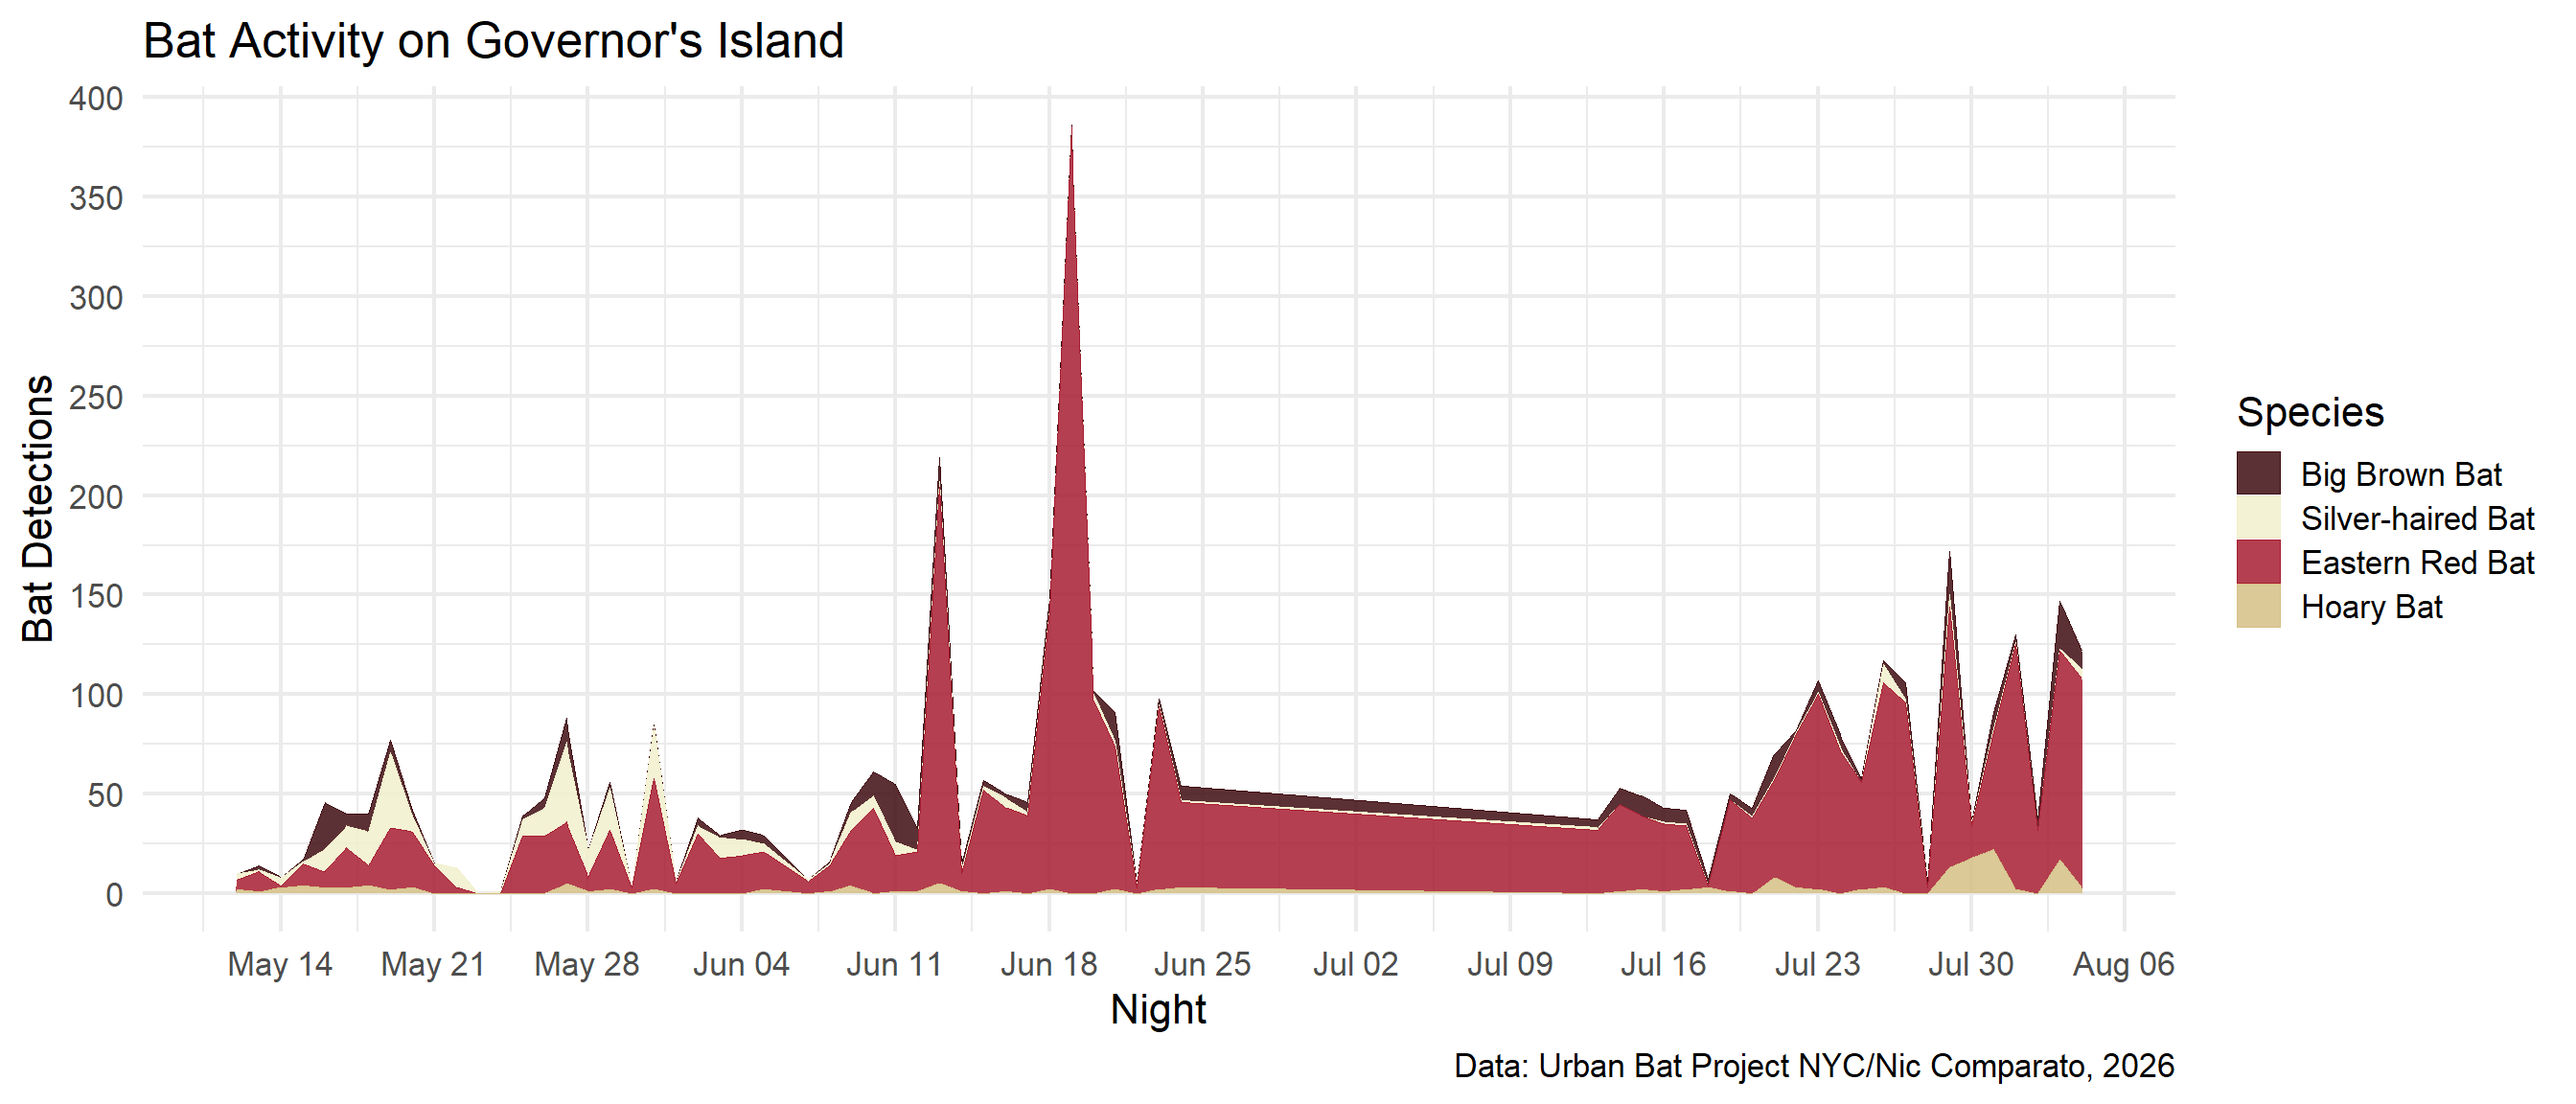
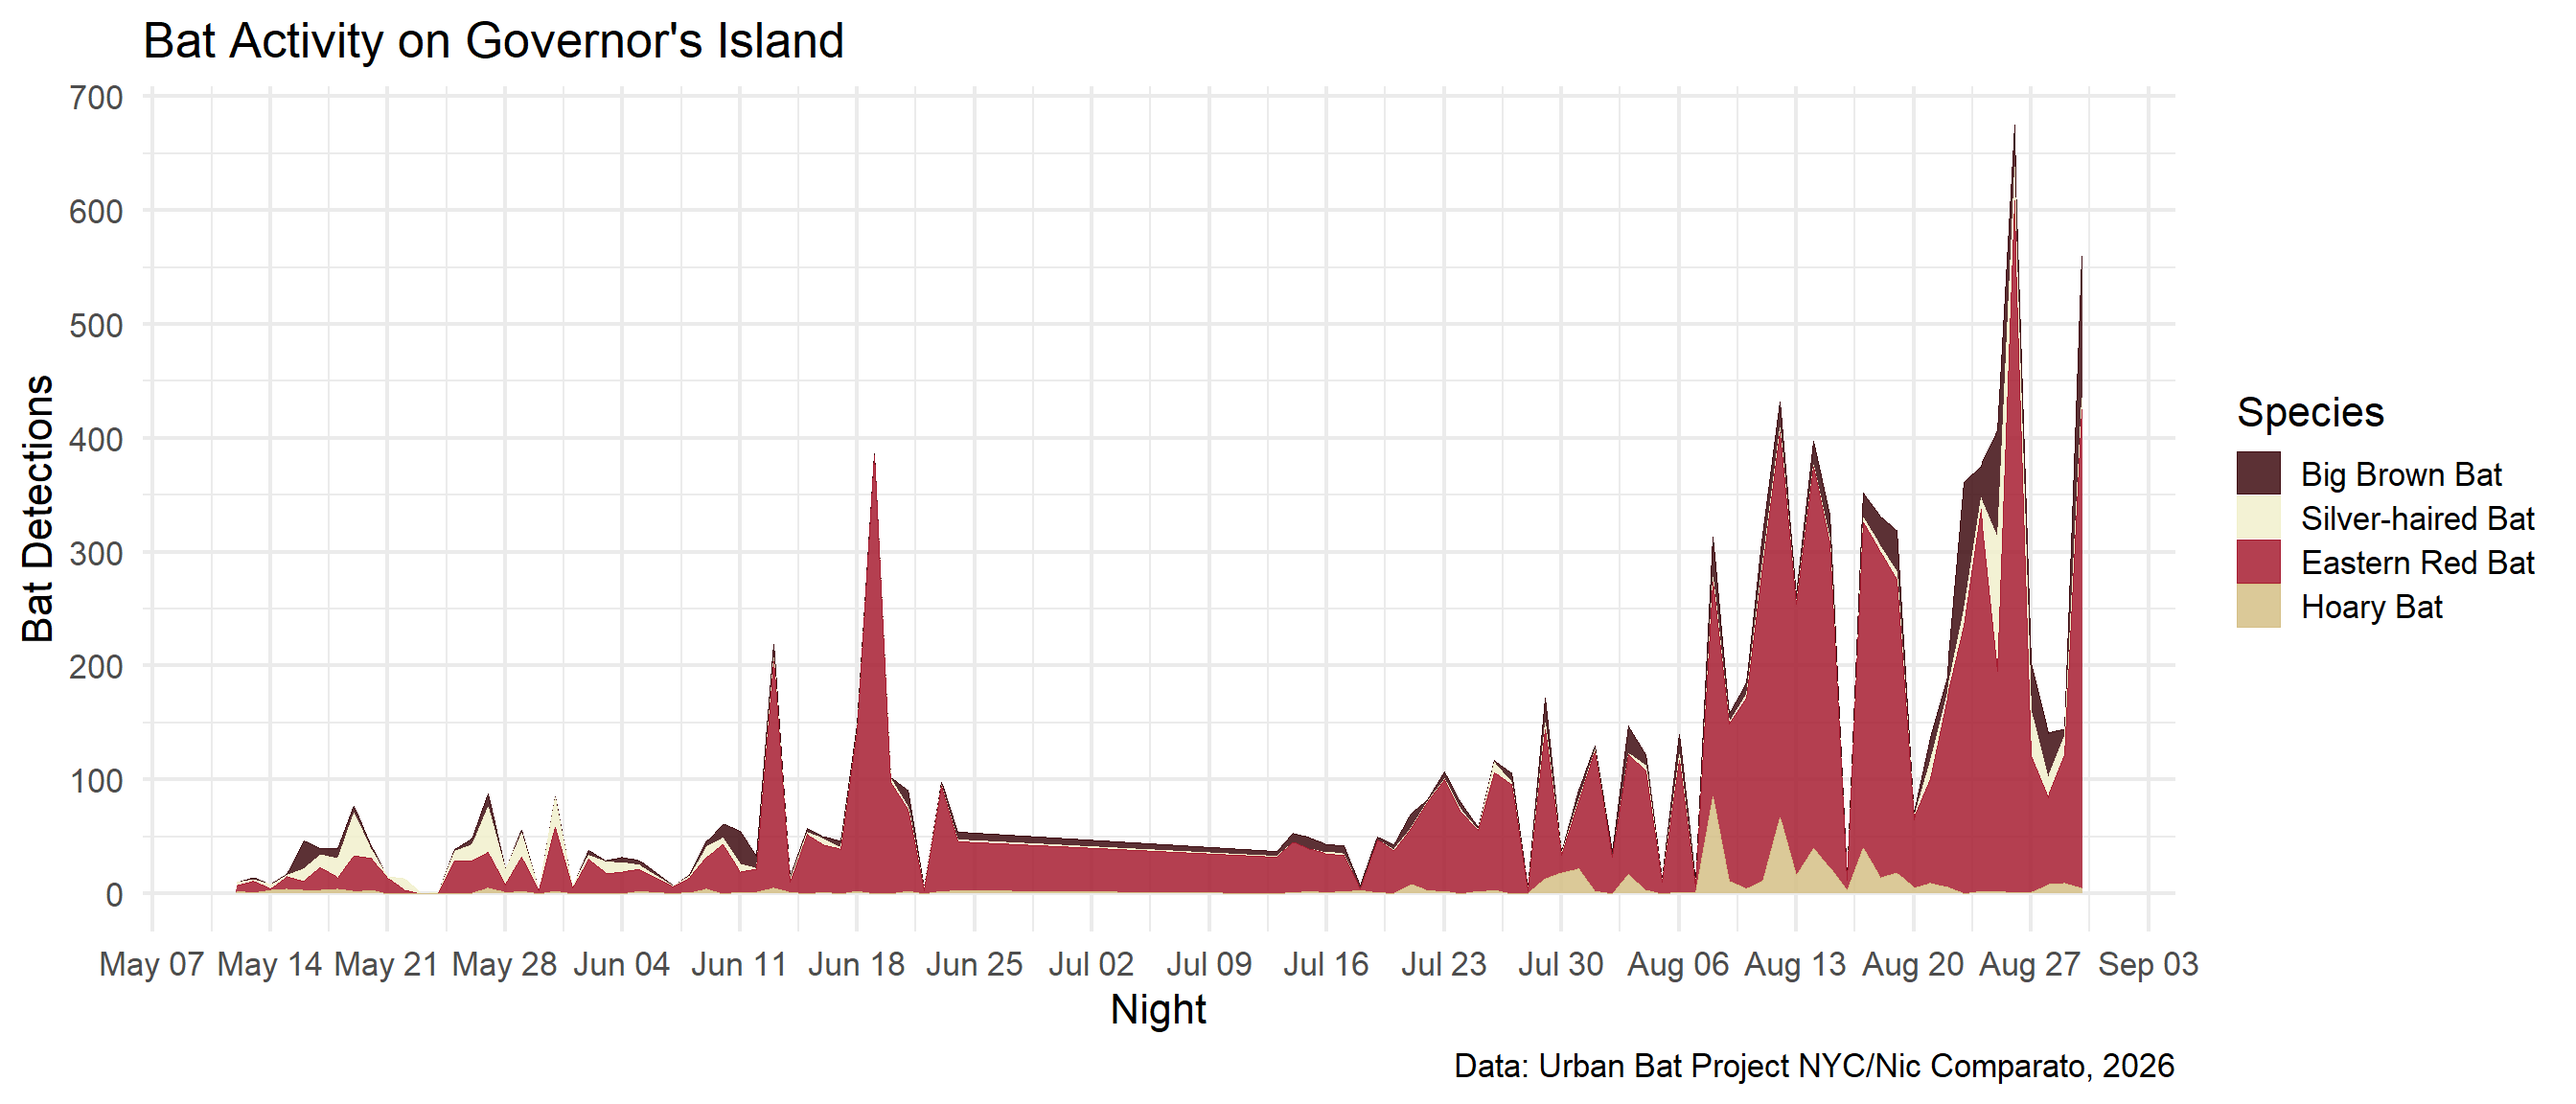
Built site for gh-pages

diff --git a/Green-Wood Cemetery.html b/Green-Wood Cemetery.html
@@ -8,7 +8,7 @@
 
 <meta name="author" content="Nic Comparato">
 
-<title>Roosevelt Island - Manhattan Healing Forest – Urban Bat Project NYC</title>
+<title>Green-Wood Cemetery, Greenwood Heights, BK – Urban Bat Project NYC</title>
 <style>
 /* Default styles provided by pandoc.
 ** See https://pandoc.org/MANUAL.html#variables-for-html for config info.
@@ -87,7 +87,7 @@ ul.task-list li input[type="checkbox"] {
 
 <header id="title-block-header" class="quarto-title-block default">
 <div class="quarto-title">
-<h1 class="title">Roosevelt Island - Manhattan Healing Forest</h1>
+<h1 class="title">Green-Wood Cemetery, Greenwood Heights, BK</h1>
 </div>
 
 
@@ -110,45 +110,35 @@ ul.task-list li input[type="checkbox"] {
 </header>
 
 
-<p>The graph below displays bat activity recorded in the Manhattan Healing Forest, our survey station is Roosevelt Island’s Southpoint Park, beginning June 24, 2026. This data was <strong>last updated August 13, 2026</strong>. The graph displays the survey nights in chronological order from left to right (x-axis) and and the number of bats detected each night are represented by the vertical peaks and valleys (y-axis).</p>
+<p>The graph below displays bat activity recorded at the Botanical Garden at Naval Cemetery Landscape in Williamsburg, Brooklyn. This is our second year working with the Brooklyn Greenway Initiative at this site, with this year’s surveys beginning on May 29, 2026. This data was <strong>last updated August 15, 2026</strong>. The graph displays the survey nights in chronological order from left to right (x-axis) and and the number of bats detected each night are represented by the vertical peaks and valleys (y-axis).</p>
 <div class="cell page-columns page-full">
 <div class="cell-output-display page-columns page-full">
 <div class="page-columns page-full">
 <figure class="figure page-columns page-full">
-<p class="page-columns page-full"><img src="RooseveltIsland_files/figure-html/unnamed-chunk-1-1.png" class="img-fluid figure-img column-screen" style="width:100.0%"></p>
+<p class="page-columns page-full"><img src="Green-Wood-Cemetery_files/figure-html/unnamed-chunk-1-1.png" class="img-fluid figure-img column-screen" style="width:100.0%"></p>
 </figure>
 </div>
 </div>
 </div>
-<section id="eastern-red-bats-and-hoary-bats-nycs-migratory-bats-of-the-summer" class="level3">
-<h3 class="anchored" data-anchor-id="eastern-red-bats-and-hoary-bats-nycs-migratory-bats-of-the-summer">Eastern Red Bats and Hoary Bats: NYC’s Migratory Bats of the Summer</h3>
-<p>Roosevelt Island’s most common species is the <strong>eastern red bat</strong> (<em>Lasiurus borealis</em>), which makes up the vast majority of our bat detections at this site (depicted in the graph above in green). This is the most common bat in most of New York City throughout the summer. We also see a very small number of <strong>hoary bats</strong> <em>(Lasiurus cinereus</em>), an uncommon local species, on Roosevelt Island. If you look close, you can see a golden yellow sliver that starts around August 2nd, this indicates hoary bat numbers have started to pick up with the beginning of August.</p>
-<p>Though both of these species live in New York City throughout the summer, they are migratory and will head south as temperatures begin to drop in the fall. The early August increase in hoary bat activity could represent a migratory wave of bats passing through NYC on their way to their wintering destinations.</p>
+<section id="big-brown-bats-and-eastern-red-bats-two-very-different-approaches-to-nyc" class="level3">
+<h3 class="anchored" data-anchor-id="big-brown-bats-and-eastern-red-bats-two-very-different-approaches-to-nyc">Big Brown Bats and Eastern Red Bats: Two Very Different Approaches to NYC</h3>
+<p>The two most commonly detected species at the Naval Cemetery Landscape are the <strong>eastern red bat</strong> (<em>Lasiurus borealis</em>) and <strong>big brown bat</strong> (<em>Eptesicus fuscus</em>). You can see by the alternating colors above that they regularly fluctuate in terms of who is more common.</p>
+<p>Eastern red bats are nomadic, migratory bats that spend the summer in NYC. They typically move to a new location every 1-2 days and are extremely flexible in their habitat requirements. Big brown bats, on the other hand, are very particular about finding the best quality habitat available. Once they’ve found a spot they like, they’ll make it their home until its time for them to hibernate in the winter.</p>
 <div style="display: flex; gap: 20px;">
 <div style="flex: 1; margin: 0;">
 <p><img src="LABO.jpg" class="img-fluid" style="width:100.0%"></p>
 <p><em>Eastern Red Bat</em></p>
 </div>
 <div style="flex: 1; margin: 0;">
-<p><img src="LACI.jpg" class="img-fluid" style="width:100.0%"></p>
-<p><em>Hoary Bat</em></p>
+<p><img src="EPFU.png" class="img-fluid" style="width:100.0%"></p>
+<p><em>Big Brown Bat</em></p>
 </div>
 </div>
 </section>
-<section id="about-idig2learn-and-the-manhattan-healing-forest-our-community-partners-on-roosevelt-island" class="level3">
-<h3 class="anchored" data-anchor-id="about-idig2learn-and-the-manhattan-healing-forest-our-community-partners-on-roosevelt-island">About iDig2Learn and the Manhattan Healing Forest, our community partners on Roosevelt Island</h3>
-<p>Our community partner and liaison is Christina Delfico, the local organizing force behind the Manhattan Healing Forest and the founder of the nature-centric organization, <a href="https://www.idig2learn.org/">iDig2Learn</a>. The Manhattan Healing Forest is New York State’s first Miyawaki Method Pocket Forest. Roughly the size of a tennis&nbsp;court, it contains tight knit&nbsp;plantings of 1,500 native trees and shrubs in Southpoint Park.&nbsp;The pocket forest’s <a href="https://www.sugiproject.com/forests/manhattan-healing-forest">funding partners&nbsp;SUGi</a>, along with leaders from NYS’s <a href="https://www.rioc.ny.gov/">Roosevelt Island Operating Corporation</a> (RIOC), the&nbsp;<a href="https://lenape.center/">Lenape Center</a> and the <a href="https://yakama.com/">Yakama Nation</a> contributed to the community planting of forty-seven native plant species in April 2024. In addition to bats, this small forest corner on Roosevelt Island is also home to kestrels, hawks, falcons, endangered Monarch&nbsp;butterflies and native bees.</p>
-<p>“Creating this pocket forest is an invitation to understand how rebuilding soil health positively affects the health of all surrounding life. Using this tight-knit planting Miyawaki Method to strengthen root connections which in turn boosts tree growth exponentially mirrors how diverse communities can come close together now and do this. After all, New Yorkers understand crowded small spaces and if we can plant it here it can plant it anywhere.” -Christina Delfico, founder iDig2Learn</p>
-<div style="display: flex; gap: 20px;">
-<div style="flex: 1; margin: 0;">
-<p><img src="SUGi1.avif" class="img-fluid" style="width:100.0%"></p>
-<p><em>The Manhattan Healing Forest During Planting</em></p>
-</div>
-<div style="flex: 1; margin: 0;">
-<p><img src="SUGi2.avif" class="img-fluid" style="width:100.0%"></p>
-<p><em>2 Years After Planting, photos by Dino Kuznik, courtesy of SUGi</em></p>
-</div>
-</div>
+<section id="about-the-brooklyn-greenway-initiative-and-the-botanical-garden-at-naval-cemetery-landscape" class="level3">
+<h3 class="anchored" data-anchor-id="about-the-brooklyn-greenway-initiative-and-the-botanical-garden-at-naval-cemetery-landscape">About the Brooklyn Greenway Initiative and the Botanical Garden at Naval Cemetery Landscape</h3>
+<p>Brooklyn Greenway Initiative is the team behind the restoration of Naval Cemetery Landscape. We began working with them in 2025 and they have been incredible partners in research. In 2026, we began offering bat walks at this location. From their website:</p>
+<p>Brooklyn Greenway Initiative built the Naval Cemetery Landscape (now called the Greenway Botanical Garden at the Naval Cemetery) in 2016 on the site of the former Naval Hospital Cemetery at the Brooklyn Navy Yard as a place for retreat and remembrance while honoring its rich layers of natural and cultural history. This site was designed as a native plant meadow and pollinator habitat, and provides visitors with an escape from urban life. Many rare birds and insects can be seen here. There are magnifying glasses on site and visitors are encouraged to bring their own binoculars to observe the bird species from the boardwalk</p>
 
 
 </section>

diff --git a/Governor's Island.html b/Governor's Island.html
@@ -110,7 +110,7 @@ ul.task-list li input[type="checkbox"] {
 </header>
 
 
-<p>The graph below displays bat activity recorded at the GrowNYC Teaching Garden on Governor’s Island, a small island just south of Manhattan. We began monitoring bat activity on May 13, 2026. This data was <strong>last updated August 5, 2026</strong>. The graph displays the survey nights in chronological order from left to right (x-axis) and and the number of bats detected each night are represented by the vertical peaks and valleys (y-axis).</p>
+<p>The graph below displays bat activity recorded at the GrowNYC Teaching Garden on Governor’s Island, a small island just south of Manhattan. We began monitoring bat activity on May 13, 2026. This data was <strong>last updated August 30, 2026</strong>. The graph displays the survey nights in chronological order from left to right (x-axis) and and the number of bats detected each night are represented by the vertical peaks and valleys (y-axis).</p>
 <div class="cell page-columns page-full">
 <div class="cell-output-display page-columns page-full">
 <div class="page-columns page-full">
